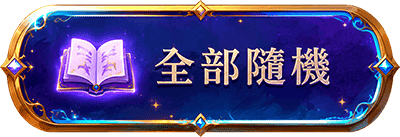
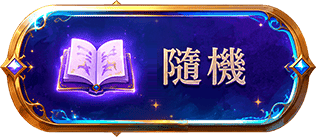
四選完成按鈕發光動畫、tab-pick疊字樣式、重設抽屜、語音評分排序

diff --git a/index.html b/index.html
@@ -87,6 +87,13 @@
   .img-btn img{display:block;height:92px;width:auto;object-fit:contain;transition:.12s;}
   .img-btn:active img{transform:scale(.95) translateY(3px);}
   .img-btn:disabled{opacity:.55;}
+  /* 四選完成：按鈕發光動畫 */
+  @keyframes btnGlow{
+    0%,100%{box-shadow:0 0 8px 2px rgba(255,180,60,.4),0 0 20px 6px rgba(255,140,60,.25);}
+    50%{box-shadow:0 0 18px 6px rgba(255,200,80,.7),0 0 40px 14px rgba(255,160,60,.4);}
+  }
+  .img-btn.glow img{animation:btnGlow 1.2s ease-in-out infinite;border-radius:20px;}
+  .gen.glow:not(.img-btn){animation:btnGlow 1.2s ease-in-out infinite;}
   @media(max-width:560px){
     body{padding-left:9px;padding-right:9px;}   /* 兩側少留白，內容更寬、按鈕更好按 */
     .tabs{gap:5px;margin-bottom:14px;}          /* 上方四個頁籤鋪滿、平均分配、加大 */
@@ -729,6 +736,7 @@ let readSeq=[], sentenceStart=[], chars=[], wrappers=[], readLang='zh';
 let currentPlan=null, currentLang='zh';
 function generate(){
   GROUPS.forEach(g=>{ if(!sel[g.key]) sel[g.key]=rnd(g.opts).id; });
+  document.querySelectorAll('.gen').forEach(b=>b.classList.remove('glow'));
   renderOpts();
   stopSpeak();
   currentPlan=buildPlan();
@@ -803,6 +811,7 @@ function toggleResetDrawer(){ document.getElementById('resetDrawer').classList.t
 // 重設故事：收起故事，清空選擇，跳回一開始選主角的畫面
 function resetStory(){
   stopSpeak();
+  document.querySelectorAll('.gen').forEach(b=>b.classList.remove('glow'));
   document.getElementById('book').classList.remove('show');
   document.getElementById('voicebar').classList.remove('show');
   document.getElementById('resetDrawer').classList.remove('show','open');
@@ -946,11 +955,14 @@ function choose(g,id){
   const next=GROUPS.findIndex((x,k)=>k>idx && !sel[x.key]);
   activeTab=next!==-1?next:idx;
   renderGroups();
-  // 四個分類全選完 → 自動帶到「變出一個故事」按鈕
+  // 四個分類全選完 → 自動帶到「變出一個故事」按鈕 + 發光提示
   if(GROUPS.every(x=>sel[x.key])){
+    document.querySelectorAll('.gen').forEach(b=>b.classList.add('glow'));
     const ctrl=document.querySelector('.controls');
     if(ctrl && ctrl.offsetParent!==null) ctrl.scrollIntoView({behavior:'smooth',block:'center'});
-    else window.scrollTo({top:0,behavior:'smooth'});   // 手機：底部固定列本來就有「變出故事」，捲回頂端看完成狀態
+    else window.scrollTo({top:0,behavior:'smooth'});
+  }else{
+    document.querySelectorAll('.gen').forEach(b=>b.classList.remove('glow'));
   }
 }
 // 主畫面即時預覽：選了主角／場景就立刻把人物放進場景（與故事插圖同一套疊圖）